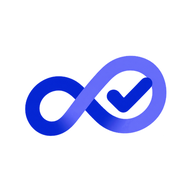
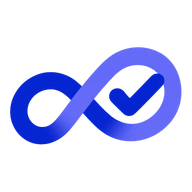
fix: PWA 아이콘 any·maskable 나누기, 프로젝트 정리 문서 서비스명 (#145 리뷰)
- any: 투명 배경·여백 조금(크게 보임), maskable: 흰 배경·넉넉한 여백 icon-maskable-512.png
- docs/00_프로젝트_정리.md: 서비스명 Pair n Care / 팀명 Pair 2 Care 구분

diff --git a/frontend/vite.config.ts b/frontend/vite.config.ts
@@ -18,10 +18,11 @@ export default defineConfig({
         display: 'standalone',          // 주소창 없이 앱처럼 열리게 하는 값
         theme_color: '#1e3bd6',
         background_color: '#f4f5fc',
-        // 흰 배경 + 여백 넉넉히 → 안드로이드가 원·둥근 사각형으로 잘라도(maskable) 심볼이 안 잘림
+        // any: 투명 배경·여백 조금(크게 보임) / maskable: 흰 배경·넉넉한 여백(안드로이드가 원형으로 잘라도 안 잘림) (#145 현지 님 리뷰)
         icons: [
-          { src: '/icon-192.png', sizes: '192x192', type: 'image/png', purpose: 'any maskable' },
-          { src: '/icon-512.png', sizes: '512x512', type: 'image/png', purpose: 'any maskable' },
+          { src: '/icon-192.png', sizes: '192x192', type: 'image/png', purpose: 'any' },
+          { src: '/icon-512.png', sizes: '512x512', type: 'image/png', purpose: 'any' },
+          { src: '/icon-maskable-512.png', sizes: '512x512', type: 'image/png', purpose: 'maskable' },
         ],
       },
     }),

diff --git a/docs/00_프로젝트_정리.md b/docs/00_프로젝트_정리.md
@@ -1,10 +1,10 @@
-# Pair 2 Care — 파이널 프로젝트 한눈에 보기 (OZ 2조)
+# Pair n Care — 파이널 프로젝트 한눈에 보기 (OZ 2조 · 팀 Pair 2 Care)
 
 > 마지막 정리: 2026-11-20 (5장 기술 선정 이유·6장 데이터 흐름 추가, 미정 사항 갱신)  
 > 결정이 바뀌면 이 문서부터 고침. 세부 내용은 각 섹션의 링크 문서 참고.
 
 ## 1. 개요
-- 서비스·팀 이름: **Pair 2 Care** (페어 투 케어, 11/16 확정) — 레포 https://github.com/AI-HealthCare-07/pair2care
+- 서비스 이름: **Pair n Care** (11/24 결정, 1:1 짝꿍 + 1:N 챌린지) / 팀 이름: **Pair 2 Care** (페어 투 케어, 11/16 확정) — 레포 https://github.com/AI-HealthCare-07/pair2care
 - 과정: OZ 코딩스쿨 Digital Healthcare AI Web Service Project
 - 주제: 만성질환(고혈압·당뇨 등) 생활습관 챌린지 웹 서비스 — 출제 기업 Talos (원문 [topic_talos.md](topic_talos.md))
 - 범위: 기획·데이터 수집 → 모델 학습 → 서빙 → 풀스택 웹 → AWS 배포까지 팀이 직접 구현함
@@ -124,7 +124,7 @@ flowchart LR
 - KPT 회고(노션, 매주 금): Keep·Problem → Try(SMART) → 투표로 Action Item 2~3개
 
 ## 9. 미정 사항 (팀 회의 안건)
-- [x] 서비스 이름 → Pair 2 Care
+- [x] 서비스 이름 → Pair 2 Care (11/16) → Pair n Care로 변경 (11/24 결정, 11/26 반영)
 - [x] 최현영 트랙 — AI·백엔드 겸함 (11/17)
 - [x] 역할 분담 — 예측 학습·검증 장성은 / 서빙 최현영, LLM 김민준, 식단 여현지, 챌린지·짝꿍 이지희 (11/20, [team.md](team.md))
 - [x] 식단 이미지 책임자 — 여현지 (11/17)
